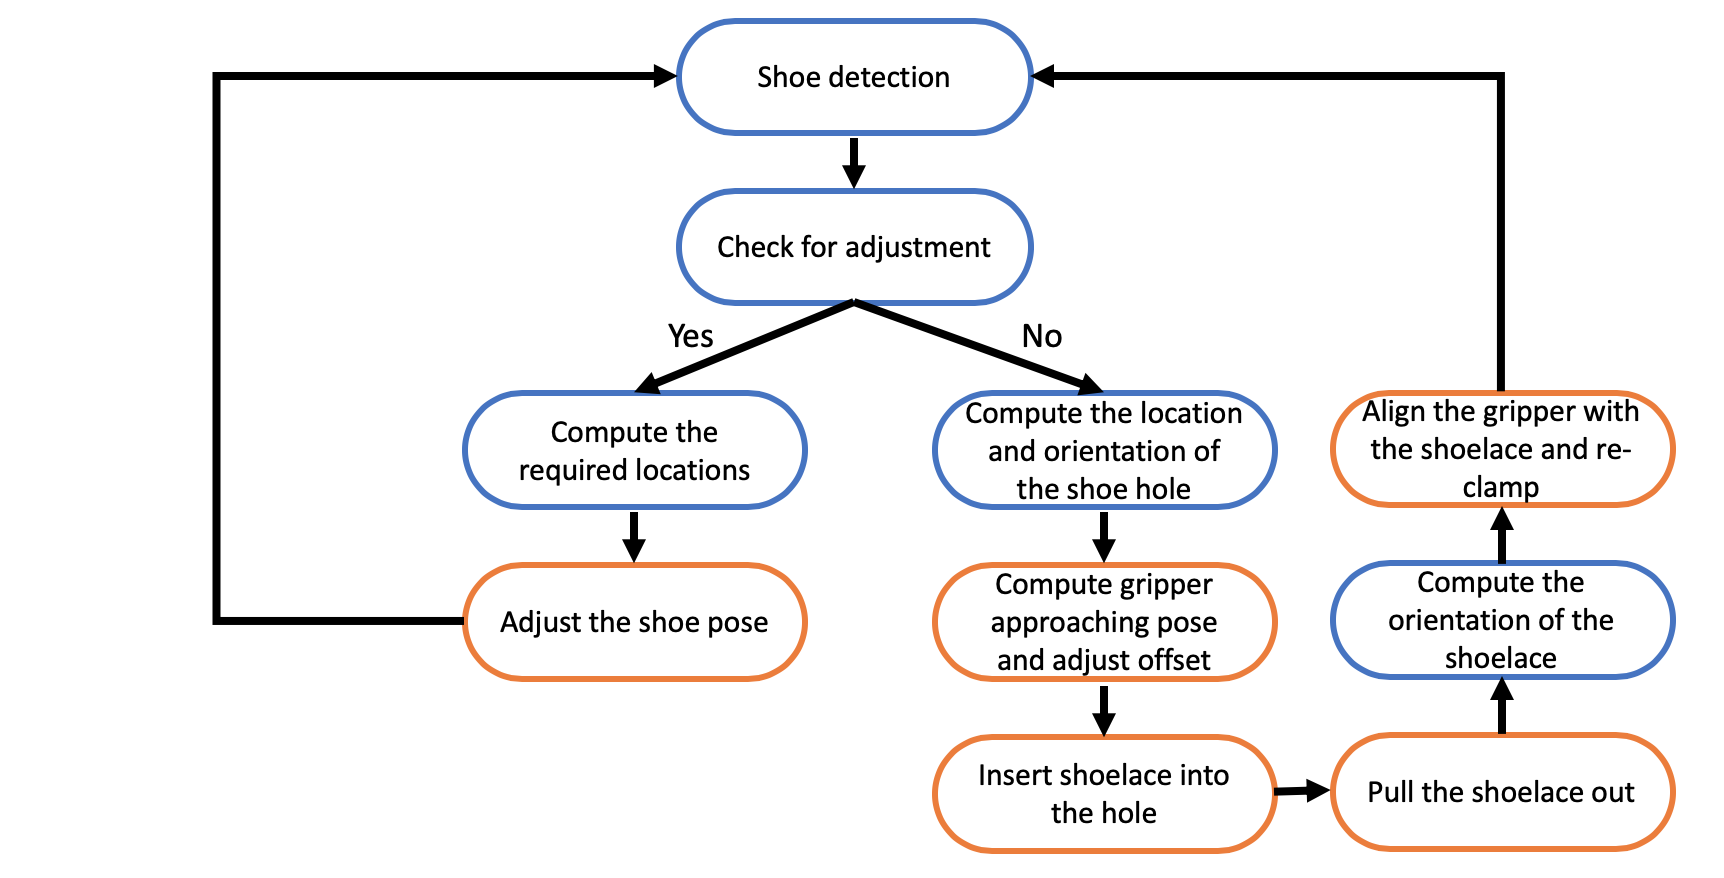
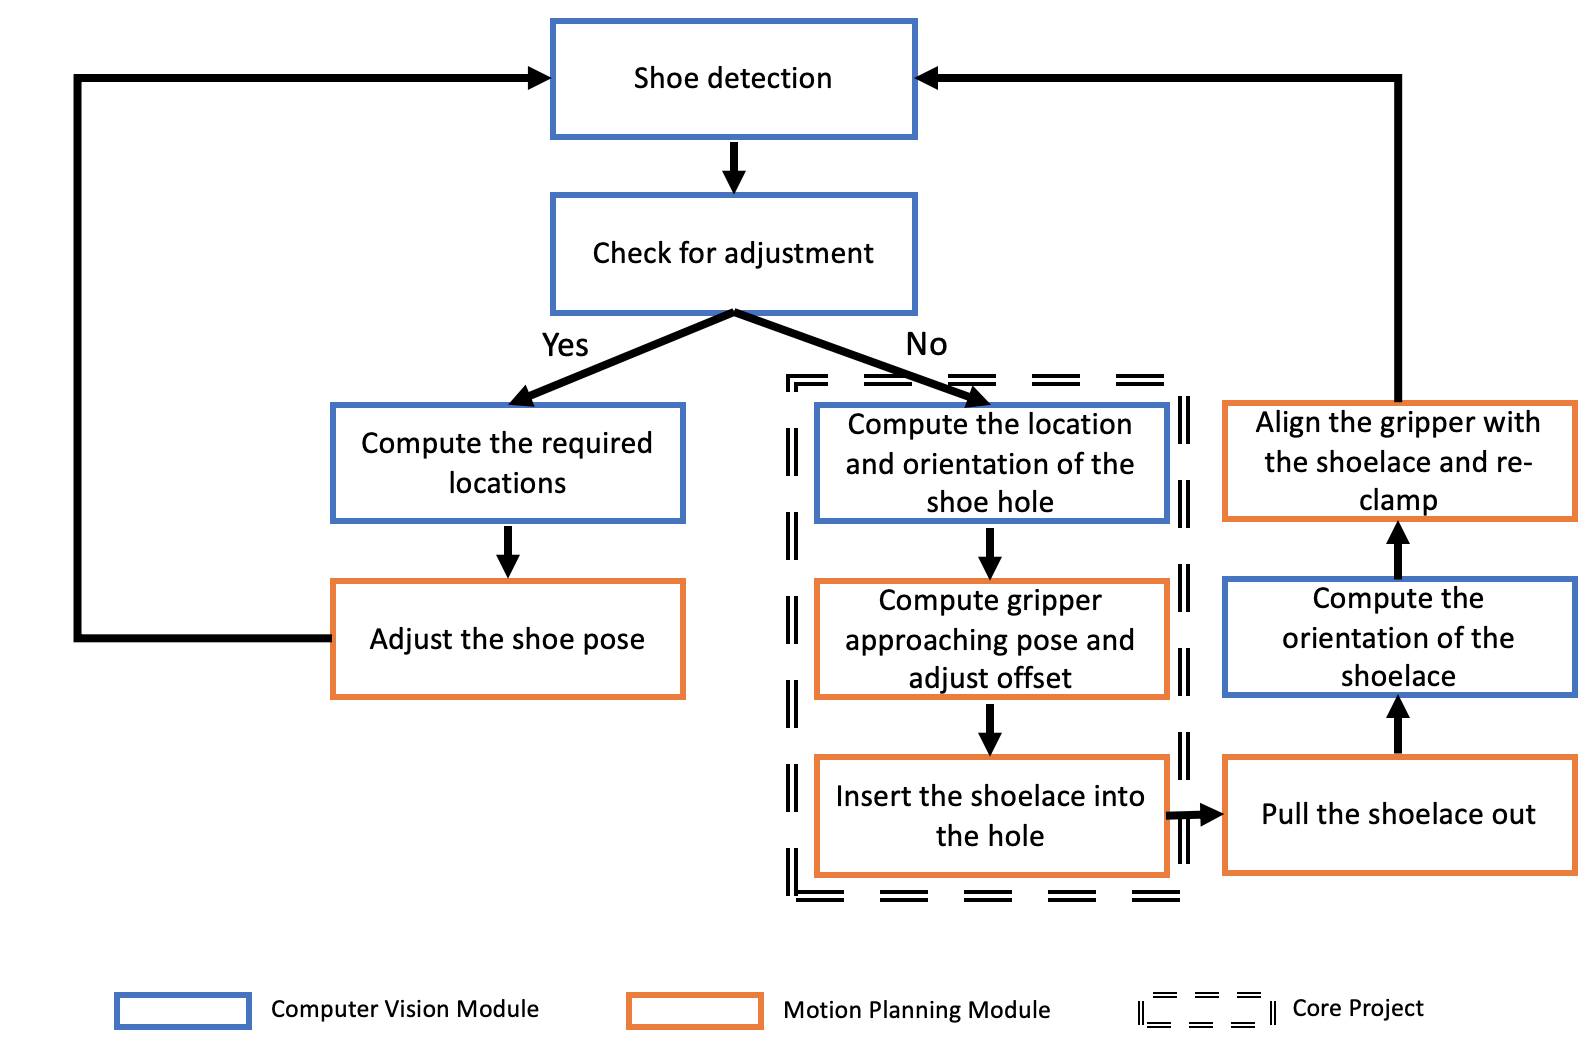
Updates from Overleaf

Changed region(s): [[0.0309, 0.0, 1.0, 0.9841], [0.0618, 0.9226, 0.3398, 0.9841]]

diff --git a/conclusion/conclusion.tex b/conclusion/conclusion.tex
@@ -1,16 +1,37 @@
 \chapter{Conclusion}
 
-This project
+This project successfully addressed the precise AI planning and control problem - putting a shoelace on a shoe using bimanual robot, YuMi, and an external camera. 
 
-critical evaluation compare to previous ....product, algorithm, ...
+Recall Figure \ref{workflow}, the system workflow, the core project which is passing the shoelace into a hole (with $4mm$ radius) has been successfully completed. In addition, YuMi equips with capabilities to adjust the pose of the shoe if necessary, as well as grab and pull the shoelace out to proper location for further manipulation after insertion. The corresponding success rates can be found in Table \ref{sris}.
 
-what extent objective fulfill |  successful?
+\begin{table}[H]
+\centering
+\begin{tabular}{||c|c|c|c||}
+\hline
+Detection & Adjustment & Insertion & Pulling \\ \hline\hline
+100\% & 95\% & 87\% & 91\% \\ \hline
+\end{tabular}
+\caption{The success rate of integrated system}
+\label{sris}
+\end{table}
 
- - design choice 
- - difficulty/ clever why?
- - how overcome 
- - what did I learn
+For computer vision part, all the requirements were met. The two cameras, ASUS Xtion and ZED Mini, were correctly set up and calibrated. All computer vision algorithms in this project were implemented for both of them. As discussed in Section \ref{shoedetection}, the shoe can be successfully detected by employing YOLO, regardless of whether there are other interfering objects on the workbench. The calculation of required locations for shoe pose adjustment is introduced in Section \ref{shoeadjust}. The location conversion between camera frame and YuMi frame is based on ROS $TF$ topic. Real-time 6D pose (3D location and 3D orientation) of shoe hole can also be estimated with high precision. The location is calculated based on some image processing techniques including color detection, blurred filter etc, details can be found in Section \ref{3dlocationestimation}. While the method to compute accurate orientation of the shoe hole is mentioned in Section \ref{3DOrientationofShoeHole}, which is based on RANSAC and pre-defined constraints.
 
-advantages (positively and worthwhile) achievement!!  reference 
+The advantages of my vision approaches are fast, relatively stable, and only require one camera. Both the normal vector of the surrounding plane of the shoe hole and color detection have great volatility in the beginning. By extracting ...
 
-disadvantages (limit)
+For motion planning part, every functionality has been fulfilled as well. My algorithms can successfully plan and move YuMi for shoe and shoelace manipulation while avoiding potential collisions with the environments. The important details about interface and planning scene setup are told in Section \ref{motionplansetup}. The movement control, and related implementation methods such as setting joint goal and pose goals are discussed in Section \ref{movementcontrol}. The three safety poses throughout manipulation process are defined in Section \ref{safetyposescalculation}. Detailed shoe pose adjustment plan, shoelace insertion plan, shoelace grabbing plan and a series of their movement photo examples can be found in Section \ref{adj}, \ref{approachposegripper}, and \ref{shoelacegrabbing} respectively. The accurate offset adjustment approach is in Section \ref{offsetadjustment}.
+
+
+Back to the workflow, Figure \ref{workflow}, the last two parts: "compute the orientation of the shoelace" and "align the gripper with the shoelace and reclamp" have not been implemented yet. However, the methods are no different from what have been described in the report. The former can be achieved by using color detection and RANSAC. According to the approaches introduced in Section \ref{approachposegripper}, YuMi can align its right gripper with the colored head of shoelace and accomplish reclamping. Adjusting shoe pose using single arm can refer to Section \ref{adj}. After that, the whole workflow is completed and the shoelace can be passed into every hole of the shoe.
+
+
+
+%critical evaluation compare to previous ....product, algorithm, ...
+
+ %- design choice 
+ %- how overcome 
+ %- what did I learn
+
+%advantages (positively and worthwhile) achievement!!
+
+%disadvantages (limit)

diff --git a/Implementation/implement_mp.tex b/Implementation/implement_mp.tex
@@ -2,7 +2,7 @@
 
 This chapter will cover the implementation methods on motion planning side of this project. The entire code for this part can be seen in !!!!!!!!!!
 
-\section{MoveIt! Interface and Planning Scene Setup}
+\section{MoveIt! Interface and Planning Scene Setup} \label{motionplansetup}
 As mentioned in Background Chapter, the motion planning part will utilize MoveIt!. The $moveit\_commander$ namespace is imported in order to use Python MoveIt! interface. This namespace contains a $RobotCommander$ class, a $MoveGroupCommander$ class, and a $PlanningSceneInterface$ class.
 
 A $RobotCommander$ object is firstly instantiated called $robot$. This object is the outer-level interface to the robot, which allow user to catch YuMi's names of joints, groups, and links and easy access to their properties.
@@ -37,7 +37,7 @@ display_trajectory_publisher = rospy.Publisher('/move_group/display_planned_path
 \end{minted}
 
 
-\section{Movement Control}
+\section{Movement Control} \label{movementcontrol}
 The opening and closing of YuMi' gripper(s) depend on the gripper effort value, which needs to be set between $-20$ to $20$. The gripper will open when the value is negative and close when it is positive. By publishing the effort value of specific gripper to its corresponding topic, $/yumi/gripper\_r\_effort\_cmd$ for right gripper, or $/yumi/gripper\_l\_effort\_cmd$ for left gripper, the gripper control function can be achieved. 
 
 %(Whether the command is to open or close, the effort value will eventually set to 0 in order to relax the effort, which will not change the gripper state.)
@@ -164,7 +164,7 @@ By using Equation \ref{rollcalculation} and \ref{pitchcalculation}, the roll and
 
 So far, the preliminary pre-put pose is $[xn, yn, zn, a, b + \pi, \pi]$ and the preliminary insertion pose is $[x, y, z, a, b + \pi, \pi]$. However, these poses are not accurate enough for this precision task, whose offsets need to be further adjusted.
 
-\section{Offset Adjustment}
+\section{Offset Adjustment} \label{offsetadjustment}
 When letting YuMi's gripper move to a specific 3D location with default orientation $(0, \pi, \pi)$ (facing the ground), the system needs to add $-0.025$ offset on the x-axis ($x\_offset$), $0.005$ offset on the y-axis ($y\_offset$), and $0.145$ offset on the z-axis ($z\_error$) to achieve relatively precise movement. However, the offset adjustment becomes complicate when considering the gripper's orientation.
 
 \begin{figure}[H]
@@ -227,7 +227,7 @@ Figure \ref{putexample} shows the insertion process, where YuMi will start from 
 \label{putexample}
 \end{figure}
 
-\section{Shoelace Grabbing}
+\section{Shoelace Grabbing} \label{shoelacegrabbing}
 After the shoelace being passed through the hole, YuMi should locate this shoelace and pull it out to complete this single hole. Since the endpoint of a shoelace is straight, the orientation of the shoelace is considered to be aligned with this direction. Therefore, the approximately location of shoelace can be computed using the normal vector calculated in Section \ref{3DOrientationofShoeHole}. Given the normal vector $n = Ai + Bj + Ck$, the grab location is set as $(0.05*A, 0.05*B, 0.05*C)$ referenced to $shoe\_hole$, where $0.05$ is used to define the distance. Figure \ref{pick} shows the related frames in Rviz, where $pre\_put$, $shoe\_hole$, and $pick$ are on the same normal vector. Here, the $pick$ will be transformed to $yumi\_base\_link$ frame as well, which gives the coordinate $(xp, yp, zp)$.
 
 \begin{figure}[H]

diff --git a/RequirementsCap/requirementscap.tex b/RequirementsCap/requirementscap.tex
@@ -14,7 +14,7 @@ The objective of this project is to solve of problem of putting shoe laces on a 
 
 To constrain the problem, a shoe with distinct lace and hole colors will be used as the target for manipulation, which is shown in Figure \ref{shoe}. In addition, the entire manipulation process will be carried out on the workbench of the Imperial College Personal Robotics Lab under normal lighting condition.
 
-The core project deliverable can be divided into two main parts: Computer Vision and Motion Planning.
+The project deliverables can be divided into two main parts: Computer Vision and Motion Planning.
 
 \section{Computer Vision}
 The main aim of this part is to compute the real-time 6D pose of a specific shoe hole. There are also other tasks include providing the YuMi end-effector with the positional information needed for shoe pose adjustment, calculating the shoelace orientation before entering the second hole, etc. The algorithm must provide an accurate and stable result so that it can be used for actual shoe lace manipulation. The following features should be delivered:

diff --git a/TaR/tar.tex b/TaR/tar.tex
@@ -165,16 +165,3 @@ As for shoelace pulling section, there are 3 turnovers. One is because the shoel
 \end{figure}
 
 Figure \ref{integratedtestfig} shows a series of YuMi manipulation photos captured by the external camera ZED Mini. In this example the shoe pose has been successfully adjusted and the shoelace were inserted and pulled out.
-
-The final success rate of the integrated system can be found in Table \ref{sris}
-
-\begin{table}[H]
-\centering
-\begin{tabular}{||c|c|c|c||}
-\hline
-Detection & Adjustment & Insertion & Pulling \\ \hline\hline
-100\% & 95\% & 87\% & 91\% \\ \hline
-\end{tabular}
-\caption{The success rate of integrated system}
-\label{sris}
-\end{table}

diff --git a/Implementation/implement_cv.tex b/Implementation/implement_cv.tex
@@ -48,7 +48,7 @@ As mentioned in Background Chapter, YOLO9000 will be used for shoe detection. \c
 
 \begin{figure}[H]
 \centering
-\includegraphics[width = 0.5\columnwidth]{Implementation/cv/yolofile.png}
+\includegraphics[width = 0.6\columnwidth]{Implementation/cv/yolofile.png}
 \caption{Important files in YOLO package}
 \label{yolofolder}
 \end{figure}
